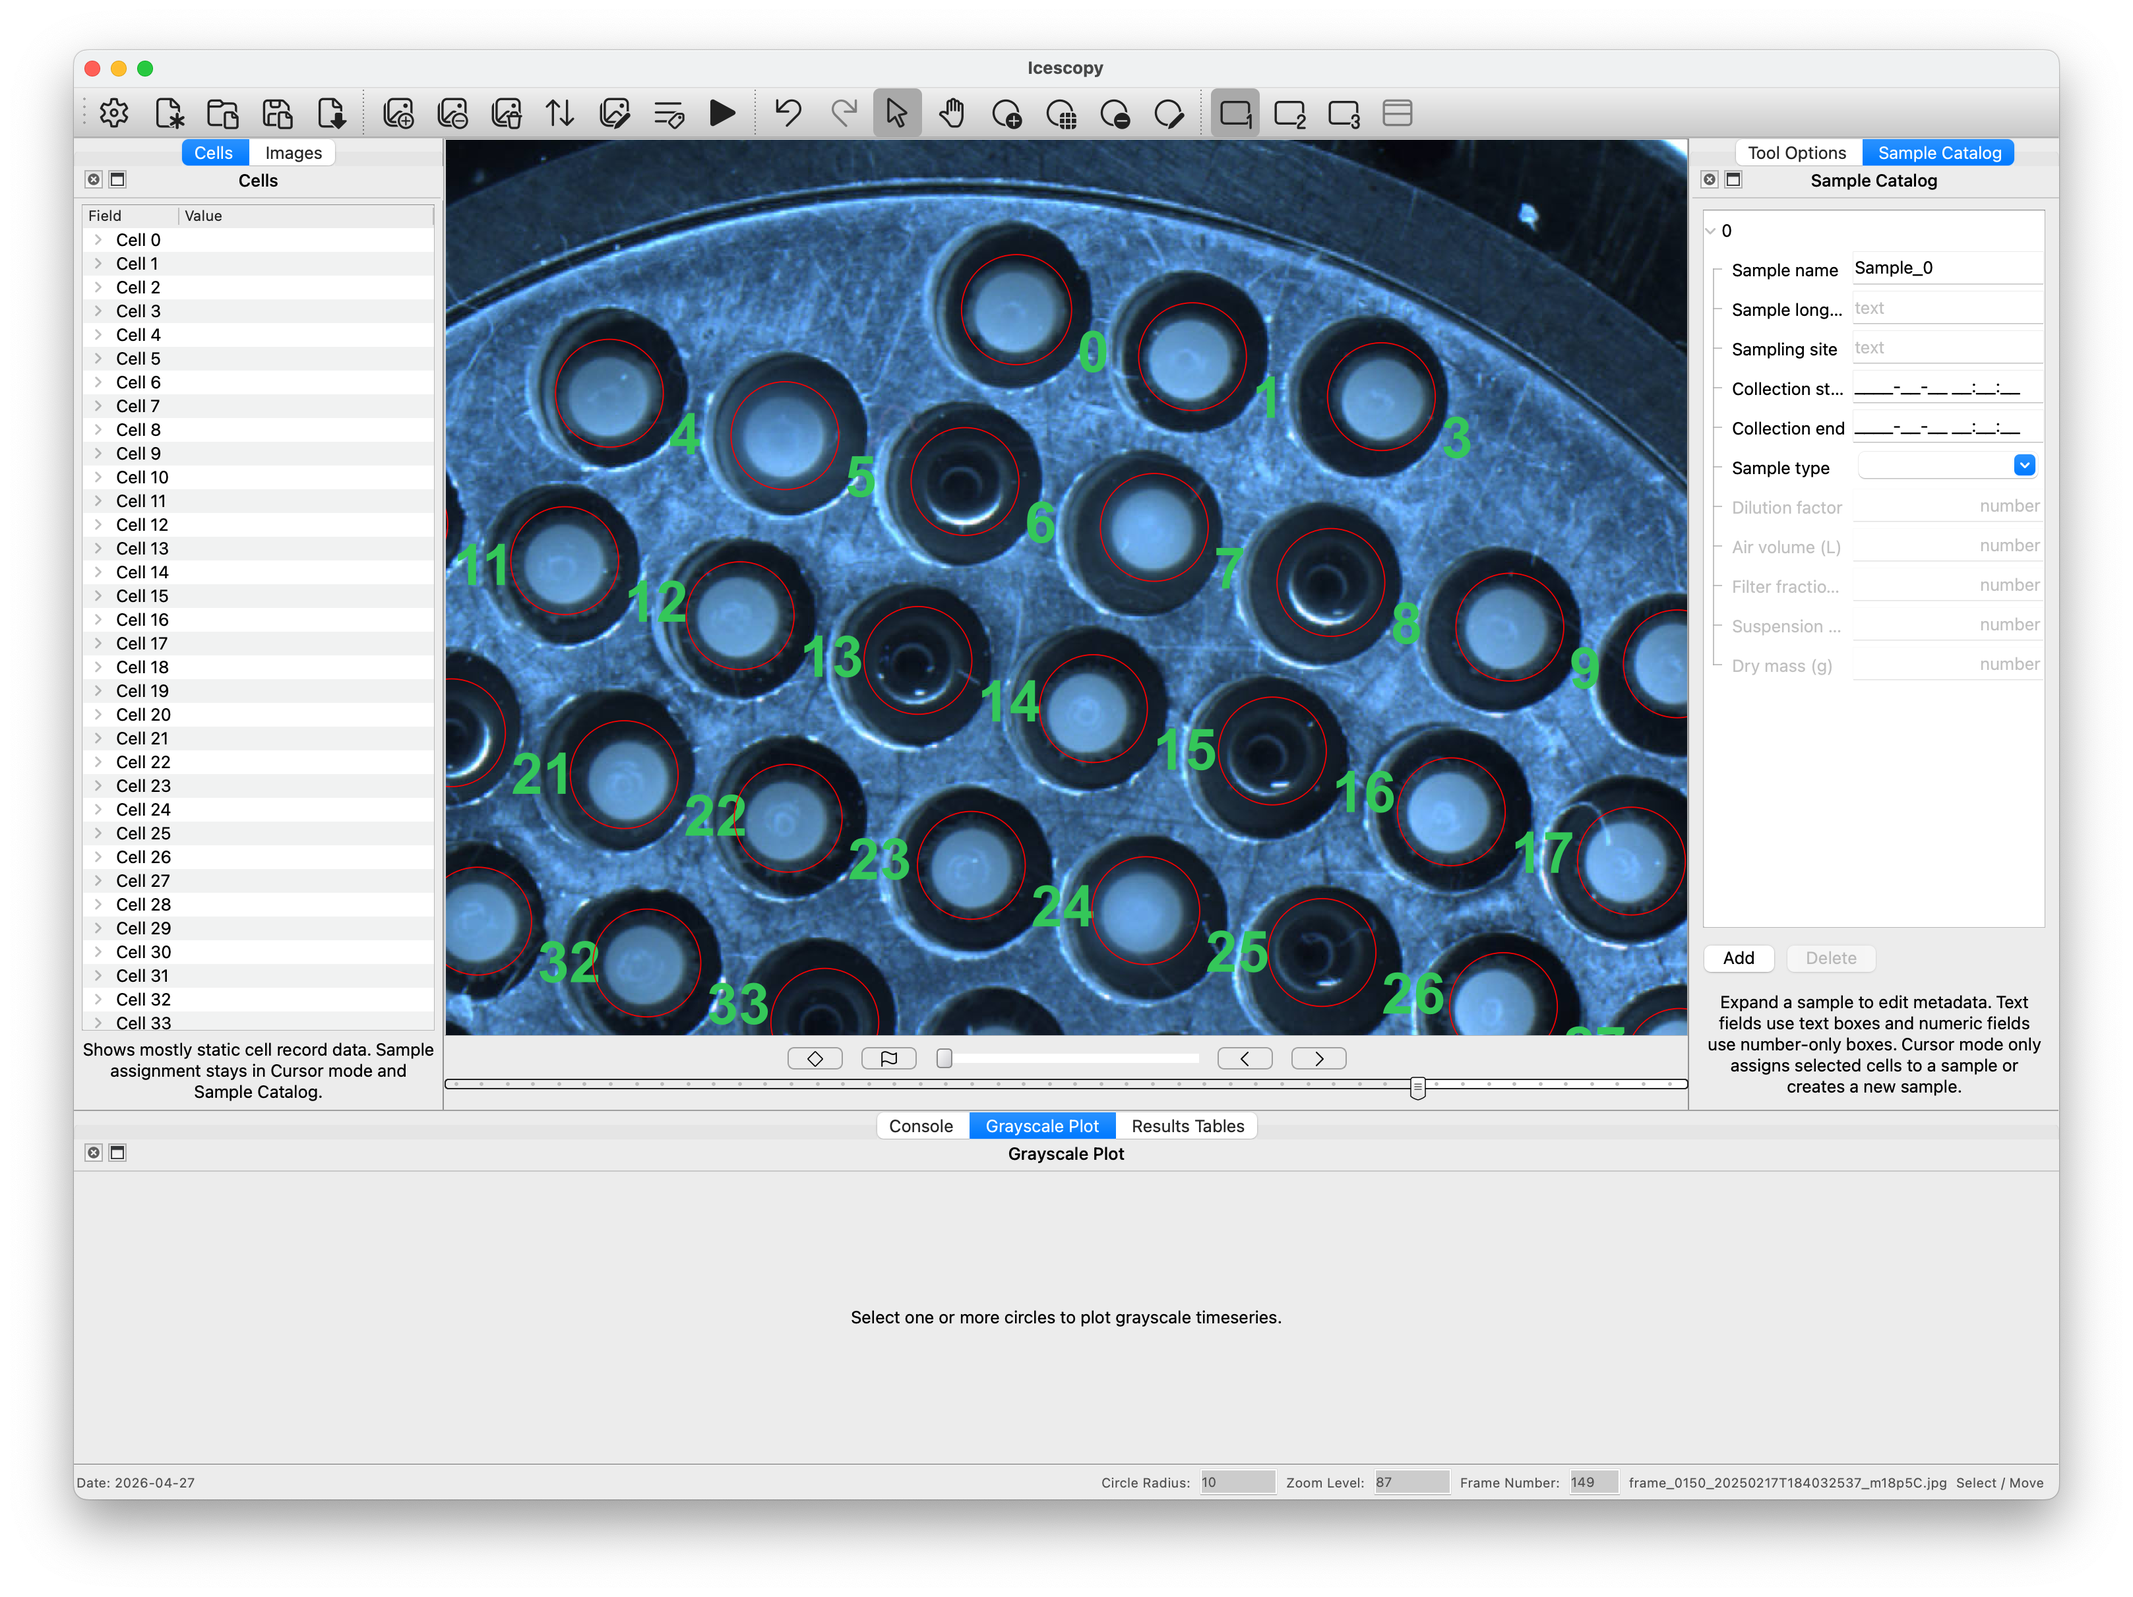
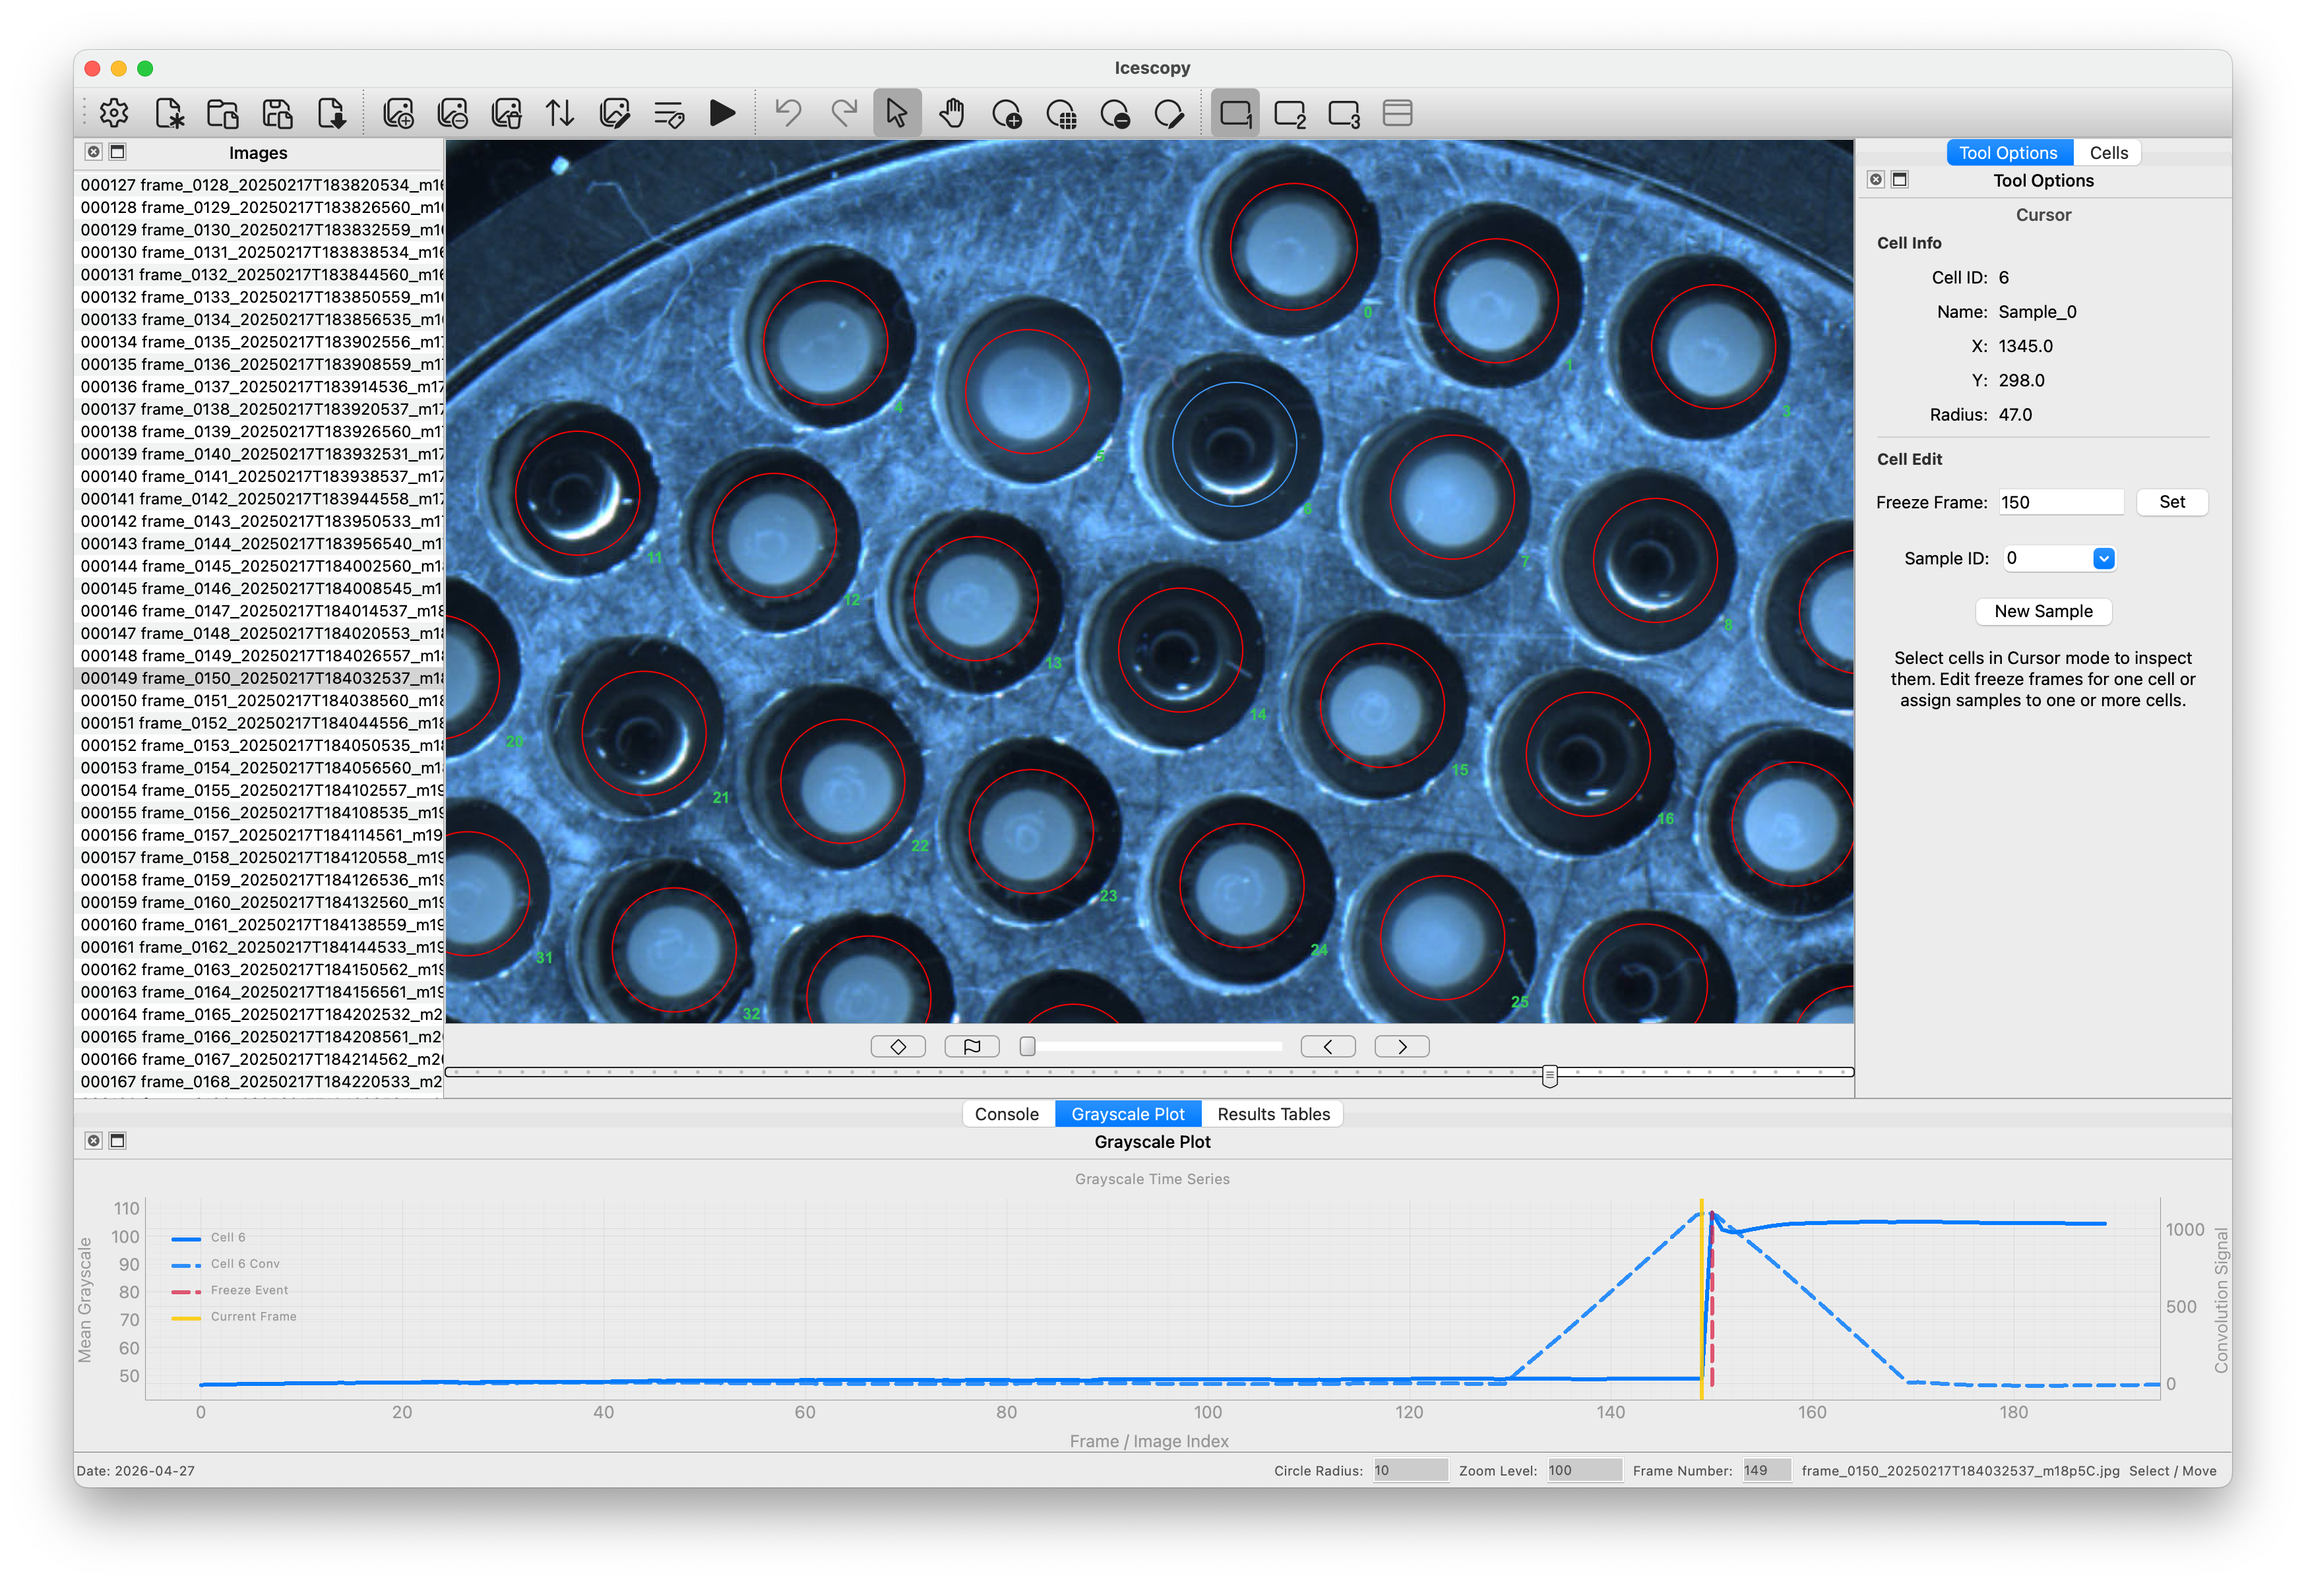
Refine README workflow highlights

diff --git a/README.md b/README.md
@@ -2,13 +2,19 @@
 
 Icescopy is a desktop application for ice assay image data. It supports droplet arrays, multiwell plates, and other image-based freezing assays by combining image annotation, sample metadata, grayscale timeseries review, freeze-event detection, and temperature-linked freeze count export in one session.
 
-## Visual Overview
+## Citation
+
+If you use Icescopy in your work, please cite it as:
+
+Chen, B. (2026). *Icescopy* (Version 2.0.0) [Computer software]. Zenodo. https://doi.org/10.5281/zenodo.19673845
+
+## Workflow Highlights
 
 Icescopy is designed for flexible ice assay workflows where every droplet or well needs to stay traceable from raw image review through final result export. It does not assume one fixed plate layout or one fixed experiment style: users can annotate the assay geometry that appears in their images, attach sample information, and review the resulting freeze counts and timeseries inside the same workspace.
 
 ### Annotate Freezing Arrays Directly
 
-Use single-cell and grid tools to mark droplets, wells, or other assay locations directly on the image data. Icescopy pairs these annotations with a robust grayscale-based freeze finding workflow, while visible location numbers keep manual review, freezing calls, and exported results tied to the same physical locations.
+Use single-cell and grid tools to mark droplets, wells, or other assay locations directly on the image data. For each annotated location, Icescopy lets you view the grayscale timeseries and inspect the frozen frame result from its robust grayscale-based freeze finding algorithm. Visible location numbers keep manual review, freezing calls, and exported results tied to the same physical locations.
 
 ![Icescopy annotation workspace showing numbered droplets in an ice assay image](resources/readme/icescopy-cell-annotation.png)
 
@@ -18,18 +24,17 @@ Image assay data often needs cleanup before freezing events can be reviewed reli
 
 ![Icescopy image editing workspace showing exposure, contrast, crop, and uniform exposure controls](resources/readme/icescopy-image-editing.png)
 
+### Import Temperature Timeseries Or Customize The Workflow
+
+Import a standard temperature timeseries file, use instrument-specific importers, or customize how image timestamps should be matched to temperature records. Icescopy can apply water blank correction and can also help correct or double-check an instrument's real-time frozen counts against image-derived freeze calls.
+
+![Icescopy temperature import dialogs showing standard CSV customization and CSU dat workflow support](resources/readme/icescopy-temperature-import.png)
+
 ### Enter Sample Metadata And Review Results
 
 After annotation, use the sample catalog to enter sample names, collection information, sample type, dilution, volumes, and related metadata. Icescopy then keeps that metadata beside the image-derived measurements so freeze count timeseries, result tables, and exports remain connected to the samples they came from.
 
 ![Icescopy workspace showing sample metadata entry and freeze count timeseries results for a well-plate ice assay](resources/readme/icescopy-freeze-count-timeseries.png)
-
-## Citation
-
-If you use Icescopy in your work, please cite it as:
-
-Chen, B. (2026). *Icescopy* (Version 2.0.0) [Computer software]. Zenodo. https://doi.org/10.5281/zenodo.19673845
-
 
 ## What The Software Does
 
